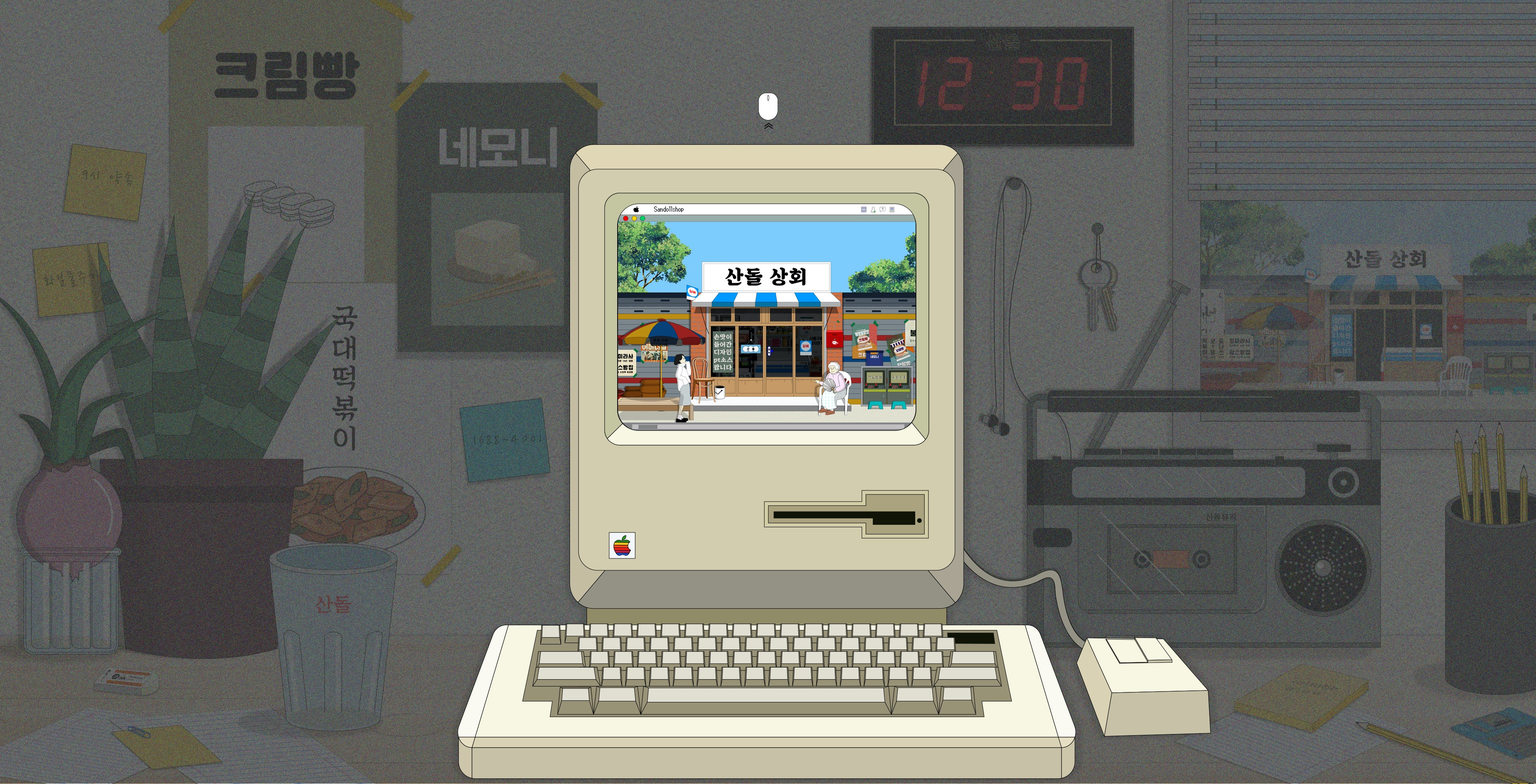
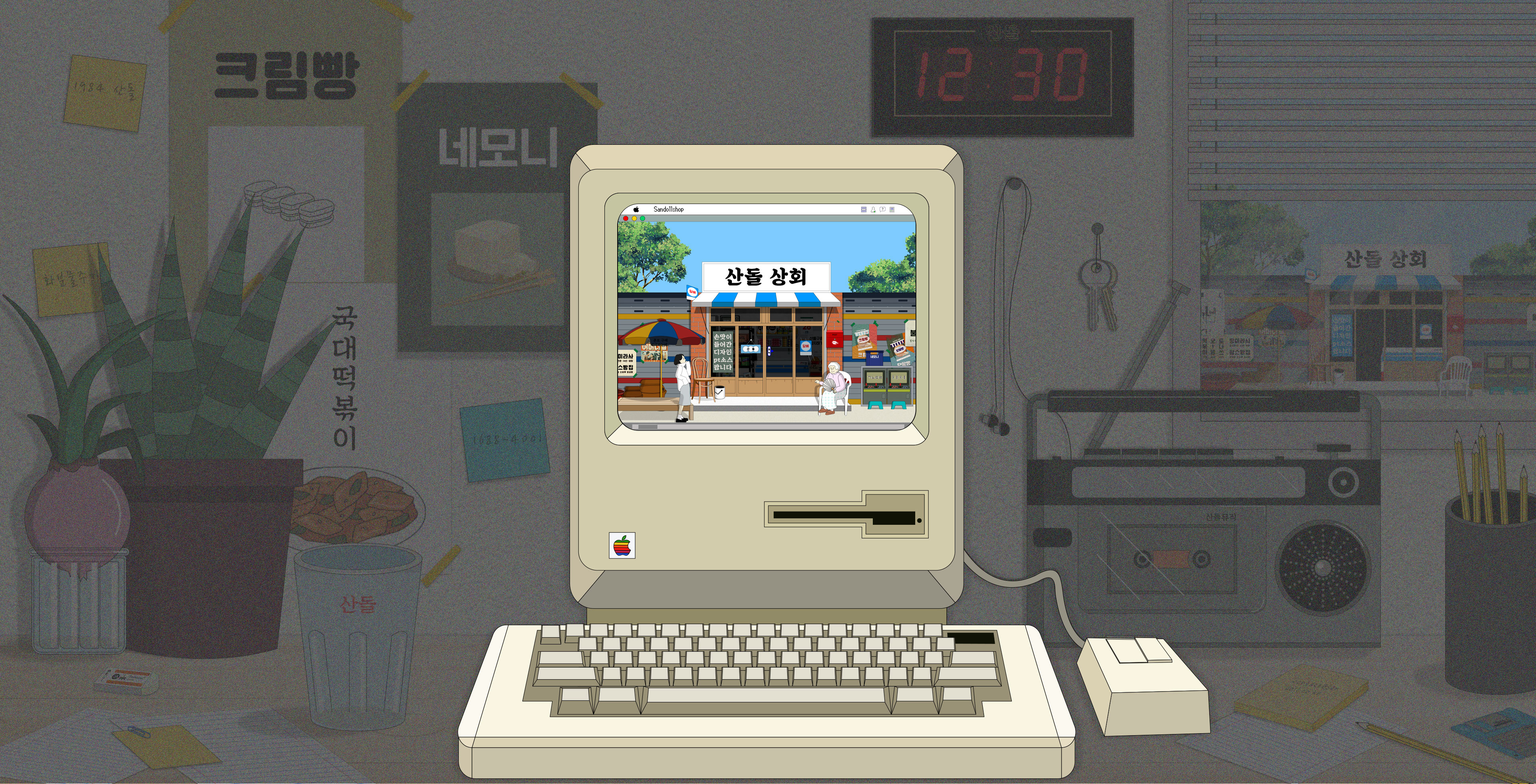
feat: add images in intro

Changed region(s): [[0.0, 0.0, 1.0, 1.0]]

diff --git a/pages/index.tsx b/pages/index.tsx
@@ -10,29 +10,44 @@ const Index: NextPage<{}> = () => {
     <main>
       <div className='Intro' style={open ? {opacity: 0, visibility: 'hidden'}: {}}>
         <div className='wrapper'>
-          <div className='mouse-container'>
-            <div className='img-wrapper img-wrapper--mouse' onClick={() => setOpen(true)}>
-              <img className='img-off mouse-move' src='/assets/imgs/intro/mouse01.png' alt="" />
-              <img className='img-off' src='/assets/imgs/intro/mouse02.png' alt="" />
-              <img className='img-on mouse-click-center' src='/assets/imgs/intro/click01.png' alt="" />
-              <img className='img-on' src='/assets/imgs/intro/click02.png' alt="" />
+          <div className='img-container'>
+            <img className='img img--blind' src='assets/imgs/intro/items/blind.png' />
+            <img className='img img--pencil' src='assets/imgs/intro/items/pencil.png' />
+            <img className='img img--eraser' src='assets/imgs/intro/items/eraser.png' />
+            <img className='img img--plant' src='assets/imgs/intro/items/plant.png' />
+            <img className='img img--flowerpot' src='assets/imgs/intro/items/flowerpot.png' />
+            <img className='img img--post-it-yellow' src='assets/imgs/intro/items/post-it-yellow.png' />
+            <img className='img img--post-it-blue' src='assets/imgs/intro/items/post-it-blue.png' />
+            <img className='img img--key' src='assets/imgs/intro/items/key.png' />
+
+            <div className='clock-wrapper'>
+              <img className='img' src='assets/imgs/intro/items/clock.jpg' />
+            </div>
+
+            <div className='mouse-wrapper' onClick={() => setOpen(true)}>
+              <img className='img-off mouse-move' src='/assets/imgs/intro/mouse/mouse01.png' alt="" />
+              <img className='img-off' src='/assets/imgs/intro/mouse/mouse02.png' alt="" />
+              <img className='img-on mouse-click-center' src='/assets/imgs/intro/mouse/click01.png' alt="" />
+              <img className='img-on' src='/assets/imgs/intro/mouse/click02.png' alt="" />
             </div>
           </div>
         </div>
+      </div>
 
-        <style jsx>{`
+      <ModalScroll isOpen={open} bgImage={'/assets/imgs/intro/background@2x.jpg'} nextPage={'/entrance'} nextScrollTop={2800}>
+        <img className='scroll' src='assets/imgs/intro/scroll.png'/>
+      </ModalScroll>
+
+      <style jsx>{`
         .Intro {
-          position: absolute;
-          top: 50%;
-          left: 50%;
-          transform: translate(-50%, -50%);
+          position: relative;
           width: 100%;
           height: 100vh;
           min-width: 1920px;
           min-height: 980px;
-          background-image: url('/assets/imgs/in/bg.jpg');
+          background-image: url('/assets/imgs/intro/white-space@2x.jpg');
           background-repeat: no-repeat;
-          background-size: auto;
+          background-size: cover;
           background-position: center;
           display: flex;
           align-items: center;
@@ -45,11 +60,58 @@ const Index: NextPage<{}> = () => {
           position: absolute;
           width: 1920px;
           height: 980px;
-          background-image: url('/assets/imgs/intro/background.jpg');
+          background-image: url('/assets/imgs/intro/bg@2x.jpg');
           background-repeat: no-repeat;
           background-size: cover;
           background-position: center;
         }
+        .img-container {
+          position: absolute;
+          top: 0;
+          left: 0;
+        }
+
+        .img { position: absolute; }
+        .img--key { top: 278px; left: 1346px; }
+        .img--pencil { top: 901px; left: 1689px; }
+        .img--eraser { top: 834px; left: 116px; }
+        .img--plant { top: 239px; left: 107px; }
+        .img--flowerpot { top: 368px; left: 3px; }
+        .img--post-it-yellow { top: 68px; left: 76px; }
+        .img--post-it-blue { top: 497px; left: 574px; }
+        .img--blind { top: 3px; left: 1485px; }
+        .scroll {
+          position: fixed;
+          width: 200px;
+          left: 50%;
+          top: -350px;
+          transform: translateX(-50%);
+        }
+
+        .clock-wrapper {
+          position: absolute;
+          width: 323px;
+          height: 147px;
+          top: 22px;
+          left: 1090px;
+          overflow: hidden;
+        }
+
+        .mouse-wrapper {
+          position: absolute;
+          width: 336px;
+          height: 86px;
+          top: 430px;
+          left: 790px;
+          cursor: pointer;
+         }
+        .mouse-wrapper:hover .img-on {
+          opacity: 1;
+        }
+        .mouse-wrapper:hover .img-off {
+          opacity: 0;
+        }
+
         .mouse-move {
           animation: mouse infinite 1s alternate linear;
         }
@@ -65,27 +127,6 @@ const Index: NextPage<{}> = () => {
         .mouse-click-center {
           transform: translate(120px, -30px);
         }
-        @keyframes mouse {
-          0% { transform: translate(110px, -15px); }
-          100% { transform: translate(110px, -25px); }
-        }
-
-        .img-container {
-          position: absolute;
-          top: 0;
-          left: 0;
-        }
-        .img-wrapper {
-          position: absolute;
-          cursor: pointer;
-        }
-        .img-wrapper--mouse {
-          width: 336px;
-          height: 86px;
-          left: 50%;
-          top: 50%;
-          transform: translate(-50%, -50%);
-         }
         .img-on {
           opacity: 0;
           position: absolute;
@@ -97,17 +138,13 @@ const Index: NextPage<{}> = () => {
         .img-off {
           transition: opacity 0.2s ease;
         }
-        .img-wrapper:hover .img-on {
-          opacity: 1;
-        }
-        .img-wrapper:hover .img-off {
-          opacity: 0;
+
+        @keyframes mouse {
+          0% { transform: translate(110px, -15px); }
+          100% { transform: translate(110px, -25px); }
         }
       `}
-        </style>
-      </div>
-
-      <ModalScroll isOpen={open} bgImage={'/assets/imgs/intro/background@2x.jpg'} nextPage={'/entrance'} nextScrollTop={2800} />
+      </style>
     </main>
   )
 };

diff --git a/pages/entrance.tsx b/pages/entrance.tsx
@@ -8,31 +8,33 @@ const Entrance: React.FC = () => {
   return (
     <main>
       <div className='Entrance' style={open ? {opacity: 0, visibility: 'hidden'}: {}}>
-        <img className='img img--gnb' src='assets/imgs/out/gnb.png' />
-        <img className='bg' src='/assets/imgs/out/background.png' />
-        <div className='img-container'>
-          <img className='img img--game' src='assets/imgs/out/game/game.png' />
-          <div className='game-video'>
-            <video autoPlay loop muted>
-              <source src='assets/imgs/out/game/video.mp4' type='video/mp4'/>
-            </video>
-          </div>
+        <div className='wrapper'>
+          <img className='bg' src='/assets/imgs/out/background.png' />
+          <div className='img-container'>
+            <img className='img img--game' src='assets/imgs/out/game/game.png' />
+            <div className='game-video'>
+              <video autoPlay loop muted>
+                <source src='assets/imgs/out/game/video.mp4' type='video/mp4'/>
+              </video>
+            </div>
 
-          <img className='img img--door' src='assets/imgs/out/door/door.png' onClick={() => setOpen(true)}/>
-          <img className='img img--signpost' src='assets/imgs/out/door/signpost.png' />
-          <img className='img img--grandma' src='assets/imgs/out/grandma/grandma-1.png' />
-          <img className='img img--grandma' src='assets/imgs/out/grandma/grandma-2.png' />
-          <img className='img img--grandma' src='assets/imgs/out/grandma/grandma-3.png' />
-          <img className='img img--grandma' src='assets/imgs/out/grandma/grandma-4.png' />
-          <img className='img img--grandma' src='assets/imgs/out/grandma/grandma-5.png' />
-          <img className='img img--left-talk' src='assets/imgs/out/grandma/talk-1.png' />
-          <img className='img img--right-talk' src='assets/imgs/out/grandma/talk-2.png' />
-          <img className='img img--girl' src='assets/imgs/out/girl/girl-1.png' />
-          <img className='img img--girl' src='assets/imgs/out/girl/girl-2.png' />
-          <img className='img img--girl' src='assets/imgs/out/girl/girl-3.png' />
-          <img className='img img--girl-talk' src='assets/imgs/out/girl/talk.png' />
-          <img className='img img--left-tree' src='assets/imgs/out/tree/left-tree.png' />
-          <img className='img img--right-tree' src='assets/imgs/out/tree/right-tree.png' />
+            <img className='img' src='assets/imgs/out/gnb.png' />
+            <img className='img img--door' src='assets/imgs/out/door/door.png' onClick={() => setOpen(true)}/>
+            <img className='img img--signpost' src='assets/imgs/out/door/signpost.png' />
+            <img className='img img--grandma' src='assets/imgs/out/grandma/grandma-1.png' />
+            <img className='img img--grandma' src='assets/imgs/out/grandma/grandma-2.png' />
+            <img className='img img--grandma' src='assets/imgs/out/grandma/grandma-3.png' />
+            <img className='img img--grandma' src='assets/imgs/out/grandma/grandma-4.png' />
+            <img className='img img--grandma' src='assets/imgs/out/grandma/grandma-5.png' />
+            <img className='img img--left-talk' src='assets/imgs/out/grandma/talk-1.png' />
+            <img className='img img--right-talk' src='assets/imgs/out/grandma/talk-2.png' />
+            <img className='img img--girl' src='assets/imgs/out/girl/girl-1.png' />
+            <img className='img img--girl' src='assets/imgs/out/girl/girl-2.png' />
+            <img className='img img--girl' src='assets/imgs/out/girl/girl-3.png' />
+            <img className='img img--girl-talk' src='assets/imgs/out/girl/talk.png' />
+            <img className='img img--left-tree' src='assets/imgs/out/tree/left-tree.png' />
+            <img className='img img--right-tree' src='assets/imgs/out/tree/right-tree.png' />
+          </div>
         </div>
       </div>
 
@@ -42,10 +44,7 @@ const Entrance: React.FC = () => {
 
       <style jsx>{`
         .Entrance {
-          position: absolute;
-          top: 50%;
-          left: 50%;
-          transform: translate(-50%, -50%);
+          position: relative;
           width: 100%;
           height: 100vh;
           min-width: 1920px;
@@ -57,6 +56,11 @@ const Entrance: React.FC = () => {
           opacity: 1;
           visibility: visible;
           transition: opacity 0.5s ease, visibility 0.4s ease;
+        }
+        .wrapper {
+          position: absolute;
+          width: 1920px;
+          height: 980px;
         }
         .bg { z-index: 1; }
         .img-container {
@@ -79,7 +83,6 @@ const Entrance: React.FC = () => {
         }
 
         .img { position: absolute; z-index: 1; }
-        .img--gnb { top: 0; left: 0; }
         .img--left-tree { top: -142px; left: -185px; z-index: 0; }
         .img--right-tree { top: -73px; left: 1337px; z-index: 0; }
         .img--girl { top: 628px; left: 497px; }
